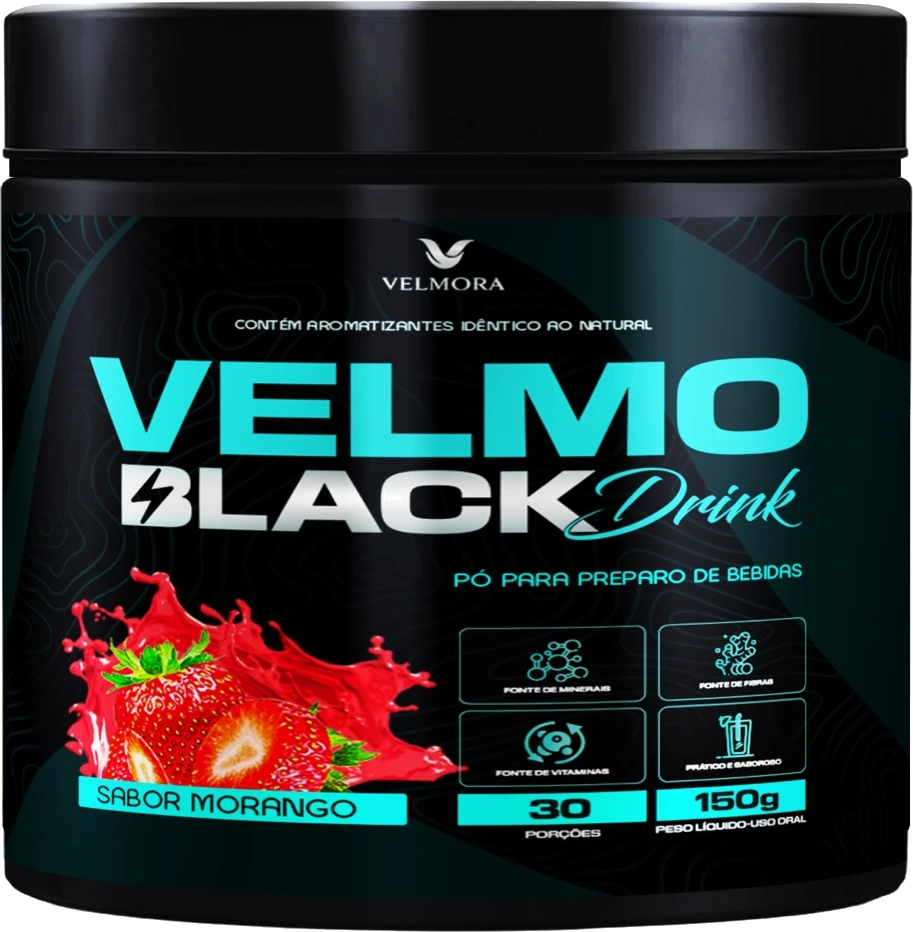
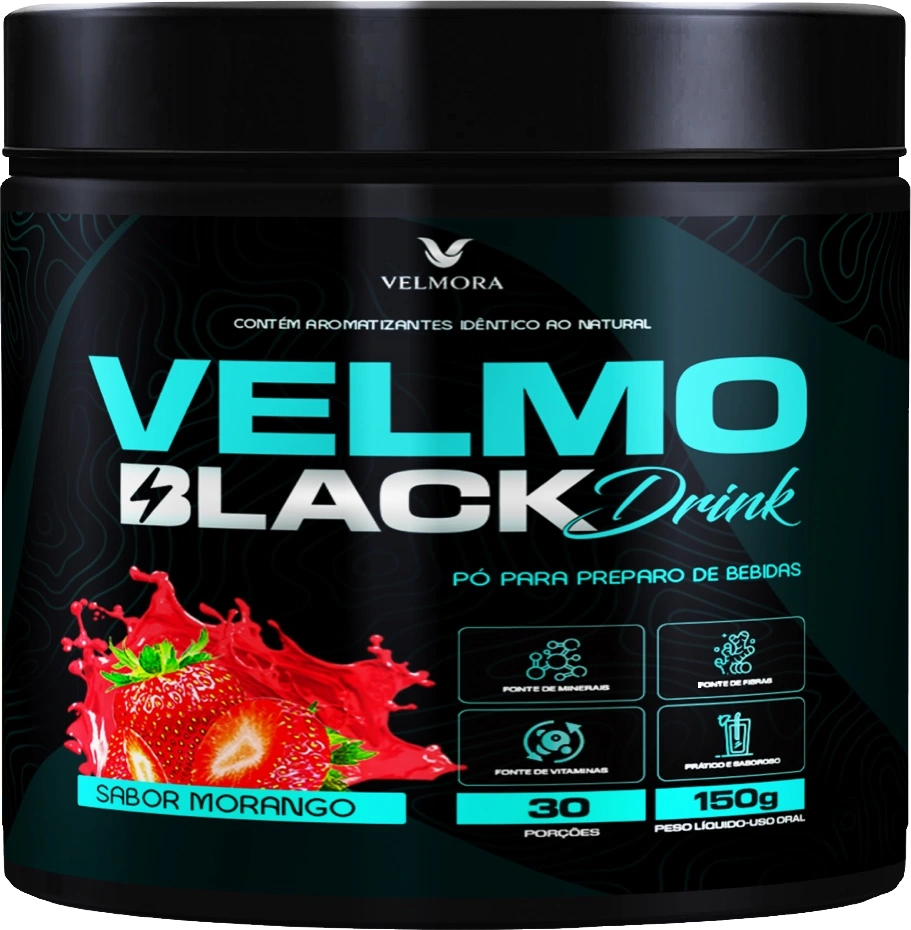
Refine flavor card product presentation

diff --git a/style.css b/style.css
@@ -36,9 +36,11 @@
 
 .single-product{mask-image:none;-webkit-mask-image:none;transform:none!important;width:280px!important;height:300px!important;margin:0 auto!important;max-width:100%}.single-product svg{display:block;width:100%;height:100%;overflow:hidden}
 
-/* Fotos avulsas, com transparência, nos cards de sabor */
+/* Potes em destaque, com recorte limpo e luz suave */
 .flavor,.citrus{background:#102320}
-.single-product{height:320px;width:min(100%,330px);overflow:visible;mask-image:none;-webkit-mask-image:none}
-.single-product img{position:relative;display:block;width:100%;height:100%;max-width:100%;inset:auto;object-fit:contain}
-@media(max-width:800px){.single-product{height:310px;width:min(100%,300px);margin:0 auto}}
-@media(max-width:440px){.single-product{height:330px;width:min(100%,320px);margin:0 auto}}
+.single-product{height:360px;width:min(100%,380px);position:relative;isolation:isolate;overflow:visible;margin:-4px auto -10px;mask-image:none;-webkit-mask-image:none}
+.single-product::before{content:"";position:absolute;z-index:0;left:50%;top:48%;width:82%;height:76%;transform:translate(-50%,-50%);border-radius:50%;background:radial-gradient(ellipse,rgba(111,223,201,.17),rgba(111,223,201,.06) 40%,transparent 73%);filter:blur(24px);pointer-events:none}
+.single-product::after{content:"";position:absolute;z-index:0;left:19%;right:19%;bottom:5%;height:8%;border-radius:50%;background:rgba(0,0,0,.45);filter:blur(16px);pointer-events:none}
+.single-product img{position:relative;z-index:1;display:block;width:100%;height:100%;max-width:100%;inset:auto;object-fit:contain;filter:drop-shadow(0 12px 18px rgba(0,0,0,.28))}
+@media(max-width:800px){.single-product{height:350px;width:min(100%,360px);margin:-2px auto -8px}}
+@media(max-width:440px){.single-product{height:360px;width:min(100%,360px);margin:0 auto -8px}}
